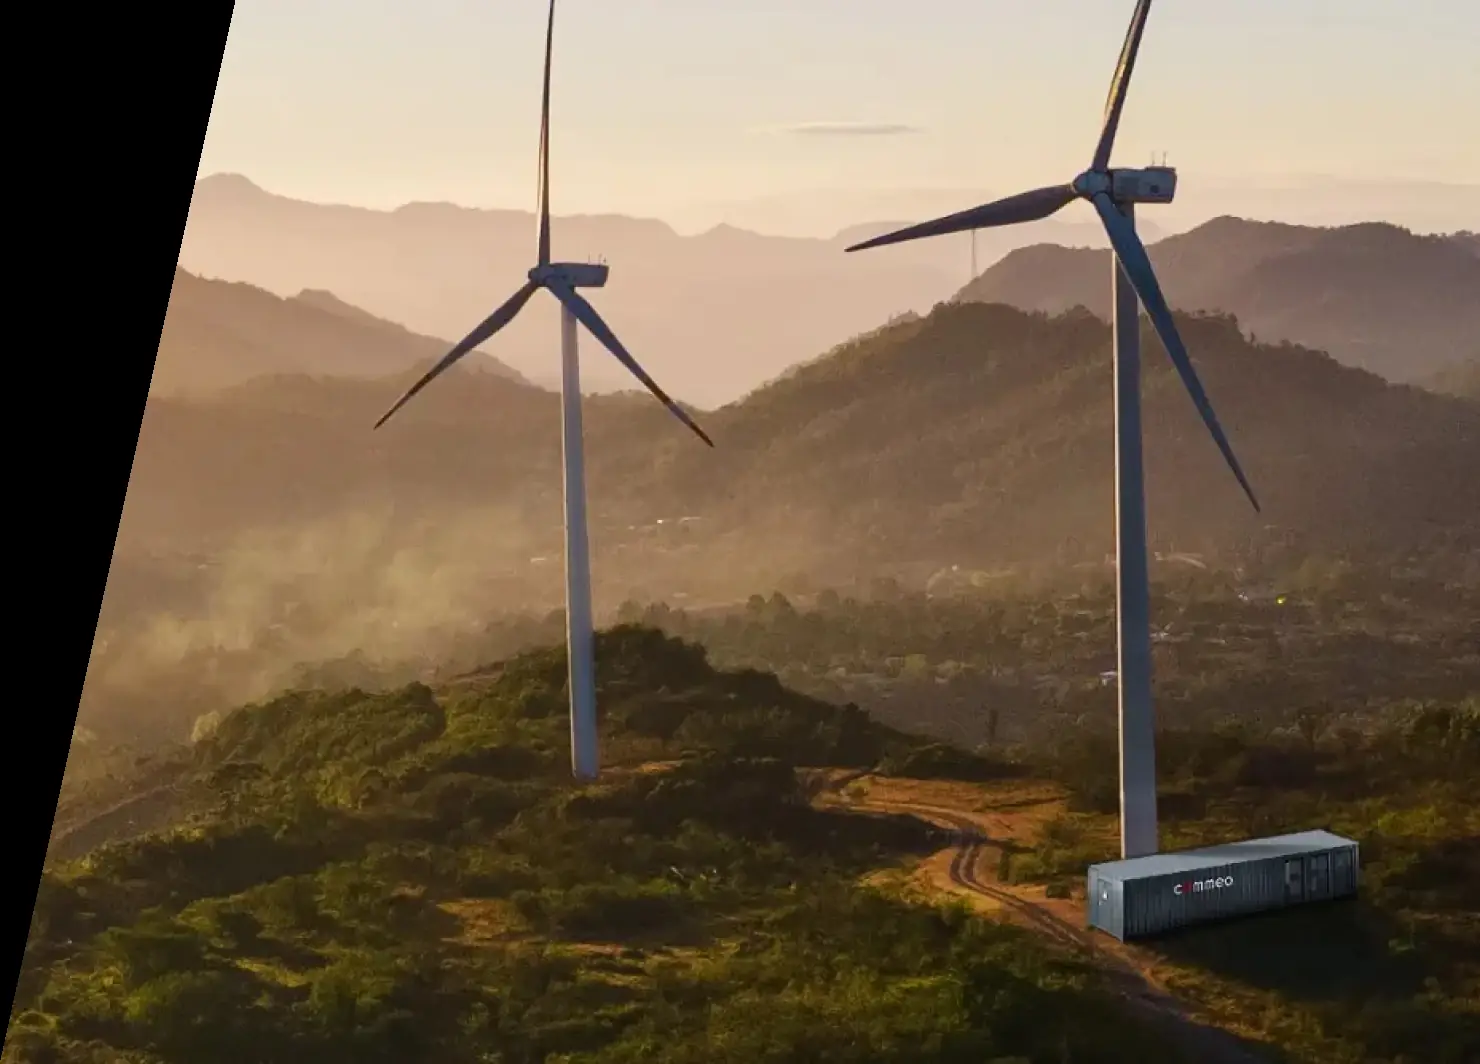
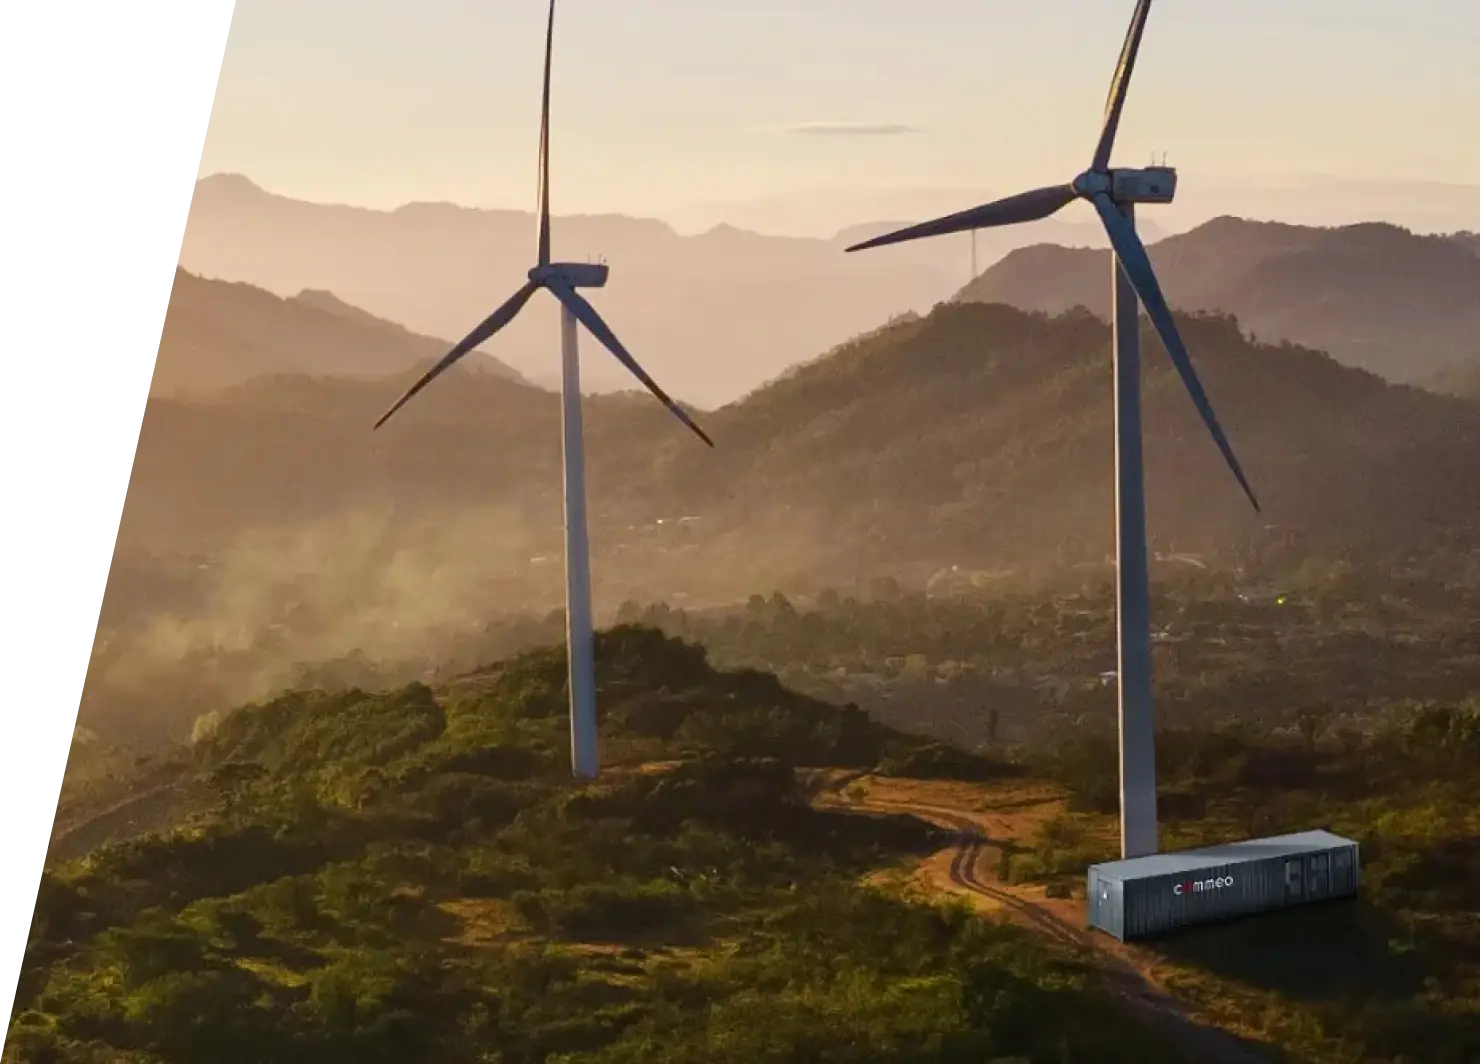
fix(v2): question counter, mobile cookie link, windpark edge
- Quiz counts "Frage X von 7" and shows "Letzter Schritt" on the form,
  matching the "7 kurze Fragen" copy.
- On phones the floating "Cookie-Einstellungen" pill covered the
  calculator; it now sits as the last footer line (CSS only, same class).
- The Figma windpark exports carry the diagonal as transparency, which
  turned black as JPEG-style WebP; re-exported with alpha, mobile uses
  the mobile export.

Claude-Session: https://claude.ai/code/session_01Uc2dxz2biJgB4foxhv8pbY

Changed region(s): [[0.0, 0.0, 0.1554, 0.9925]]

diff --git a/v2/funnel.css b/v2/funnel.css
@@ -290,10 +290,13 @@ input[type=range]::-moz-range-thumb{width:18px;height:18px;border-radius:50%;bac
   .quiz-body h2{font-size:24px}
   .quiz-foot{padding:14px 20px 22px}
   .quiz-trust{display:none}
-  .foot-in{padding-bottom:110px}
   .cookie-banner{grid-template-columns:1fr;bottom:0;width:100%;border-radius:0;padding:22px 20px calc(22px + env(safe-area-inset-bottom))}
   .cookie-actions{min-width:0}
-  .cookie-settings{bottom:84px}
+  /* consent.js hängt den Button ans Ende von <body>: auf dem Handy als letzte Footer-Zeile statt schwebend, damit er nie Inhalt verdeckt */
+  .foot-in{padding-bottom:20px}
+  html{background:var(--navy)}
+  .cookie-settings{position:static;display:block;width:100%;margin:0 0 calc(96px + env(safe-area-inset-bottom));padding:0 20px 24px;background:var(--navy);color:var(--soft);border:0;border-radius:0;font-size:14px;text-align:left;text-decoration:underline}
+  .cookie-settings:hover{color:#fff}
   .sticky-cta{display:block;position:fixed;left:0;right:0;bottom:0;z-index:120;padding:12px 16px calc(12px + env(safe-area-inset-bottom));background:#fff;box-shadow:0 -8px 24px -12px rgba(31,55,65,.35);transform:translateY(110%);transition:transform .25s}
   .sticky-cta.show{transform:none}
 }

diff --git a/v2/index.html b/v2/index.html
@@ -8,7 +8,7 @@
 <link rel="icon" href="/commeo-logo.png">
 <link rel="preload" href="/v2/fonts/barlow-700.woff2" as="font" type="font/woff2" crossorigin>
 <link rel="preload" href="/v2/fonts/barlow-500.woff2" as="font" type="font/woff2" crossorigin>
-<link rel="stylesheet" href="/v2/funnel.css?v=3">
+<link rel="stylesheet" href="/v2/funnel.css?v=4">
 <!-- Wie /check.html: Cookie-Banner lädt Meta Pixel (/tracking.js) und Google Ads (/google-ads.js) erst nach Zustimmung -->
 <script src="/consent.js?v=2" defer></script>
 </head>
@@ -216,7 +216,7 @@
   </div>
   <div class="final-img">
     <picture>
-      <source media="(max-width:960px)" srcset="/v2/img/windpark-760.webp">
+      <source media="(max-width:960px)" srcset="/v2/img/windpark-760.webp" width="750" height="500">
       <img src="/v2/img/windpark-1480.webp" alt="Windpark in hügeliger Landschaft mit Commeo Speichercontainer" width="1480" height="1064" loading="lazy">
     </picture>
   </div>
@@ -251,6 +251,6 @@
   </div>
 </div>
 
-<script src="/v2/funnel.js?v=3"></script>
+<script src="/v2/funnel.js?v=4"></script>
 </body>
 </html>

diff --git a/v2/funnel.js b/v2/funnel.js
@@ -133,7 +133,8 @@ function renderStep() {
   const s = steps[cur];
   bar.style.width = ((cur + 1) / (steps.length + 1) * 100) + '%';
   backBtn.style.visibility = cur ? 'visible' : 'hidden';
-  const head = `<p class="q-step">Frage ${cur + 1} von ${steps.length}</p><h2 id="qTitle">${s.q}</h2>${s.hint ? `<p class="q-hint">${s.hint}</p>` : ''}`;
+  // 7 Fragen + Formular: das Formular zählt nicht als Frage
+  const head = `<p class="q-step">${s.form ? 'Letzter Schritt' : `Frage ${cur + 1} von ${steps.length - 1}`}</p><h2 id="qTitle">${s.q}</h2>${s.hint ? `<p class="q-hint">${s.hint}</p>` : ''}`;
 
   if (s.form) {
     body.innerHTML = `${head}<p class="q-hint">Ein Commeo-Experte ordnet Ihr Potenzial persönlich in Euro und Prozent ein.</p>
